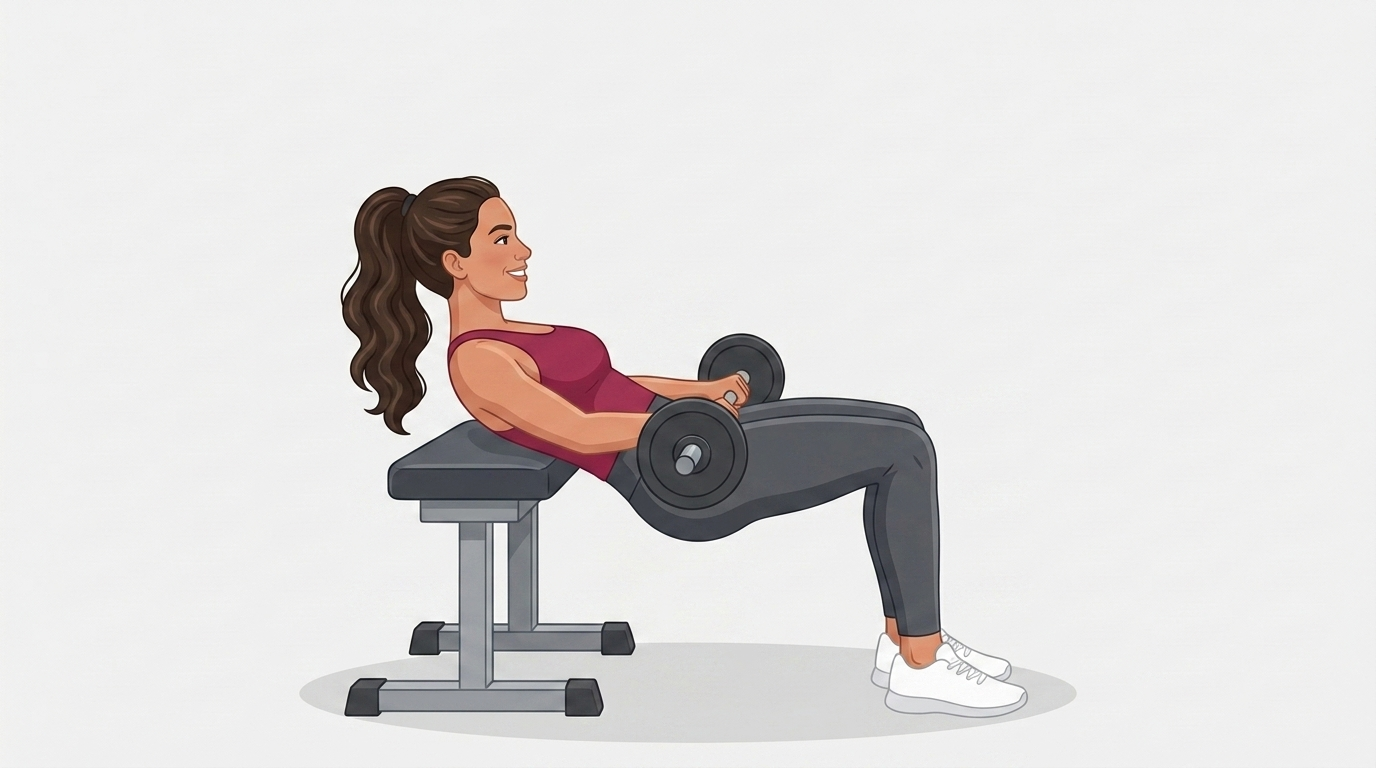
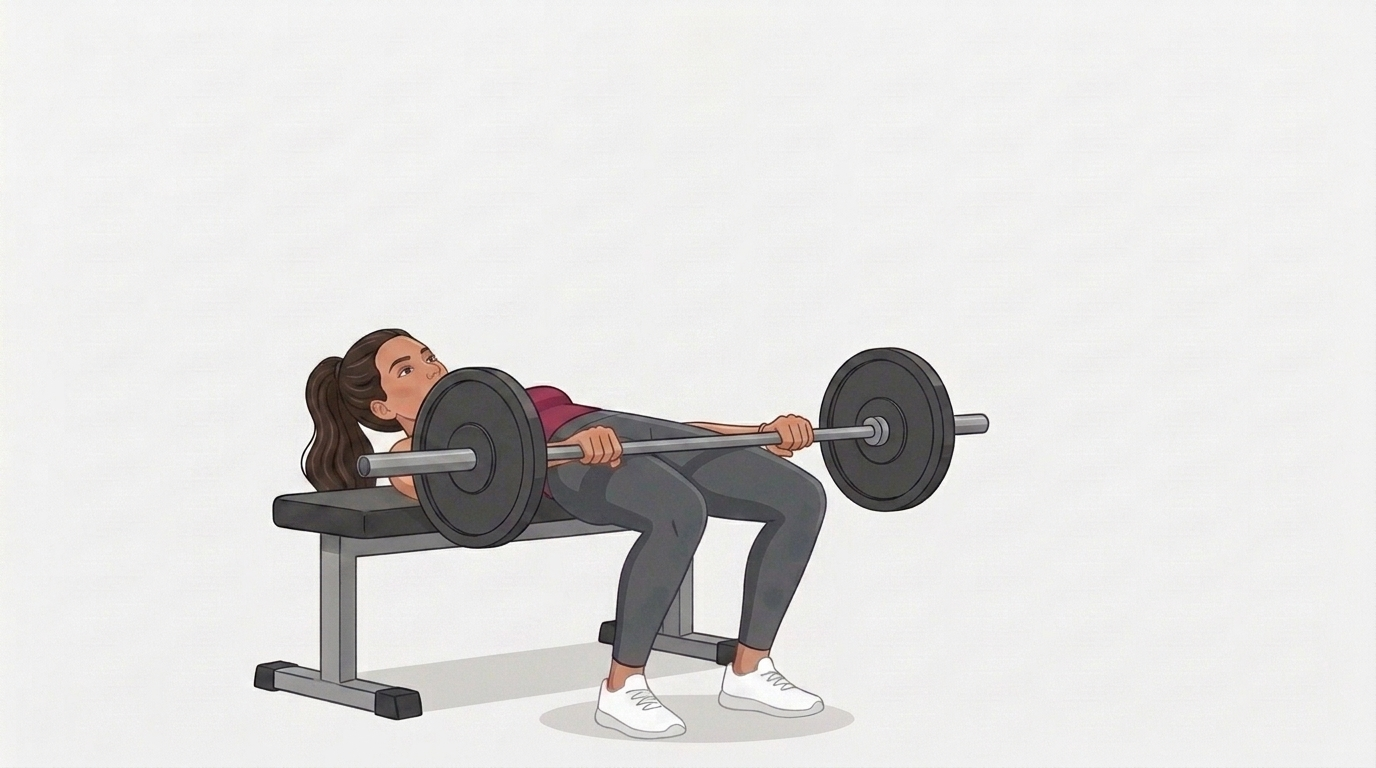
Regenera 9 imagens de exercicio com defeito (personagem YaraApp no Flow)
Substitui as 9 ilustracoes que tinham erro visivel (equipamento
irreconhecivel, halteres fundidos, pose ambigua, anatomia): supino reto
barra, triceps frances/testa/elastico, elevacao frontal, remada alta,
agachamento halteres, elevacao pelvica barra, puxada alta elastico.
Mesma personagem/estilo/enquadramento (1376x768) das outras 47.
Atualiza o doc-comment desatualizado de Exercicio.caminhoImagem.

Changed region(s): [[0.1875, 0.2188, 0.7812, 0.9688]]

diff --git a/lib/models/exercicio.dart b/lib/models/exercicio.dart
@@ -77,13 +77,12 @@ extension EquipamentoLabel on Equipamento {
 /// quanto pelo filtro "em casa" da biblioteca de exercícios.
 const equipamentosCasa = {Equipamento.nenhum, Equipamento.elastico};
 
-/// Um exercício da biblioteca. `caminhoImagem` fica nulo por enquanto para
-/// todos os exercícios — a demonstração visual foi decidida como imagem
-/// gerada por IA (personagem consistente), não vídeo/GIF nem banco de
-/// imagens licenciado (ver briefing do produto), mas a produção real
-/// dessas imagens é um passo externo que ainda não aconteceu. Quando
-/// existir, é um asset local do app (conteúdo pré-gravado, sem custo
-/// recorrente de geração por usuária).
+/// Um exercício da biblioteca. `caminhoImagem` aponta para a imagem de
+/// demonstração — asset local do app (`assets/personagem/<id>.jpg`),
+/// ilustração da personagem consistente gerada por IA (personagem
+/// consistente, não vídeo/GIF nem banco de imagens licenciado — ver
+/// briefing do produto). Fica nulo só para exercícios ainda sem imagem
+/// própria, e aí a tela cai na ilustração genérica do grupo muscular.
 class Exercicio {
   const Exercicio({
     required this.id,
